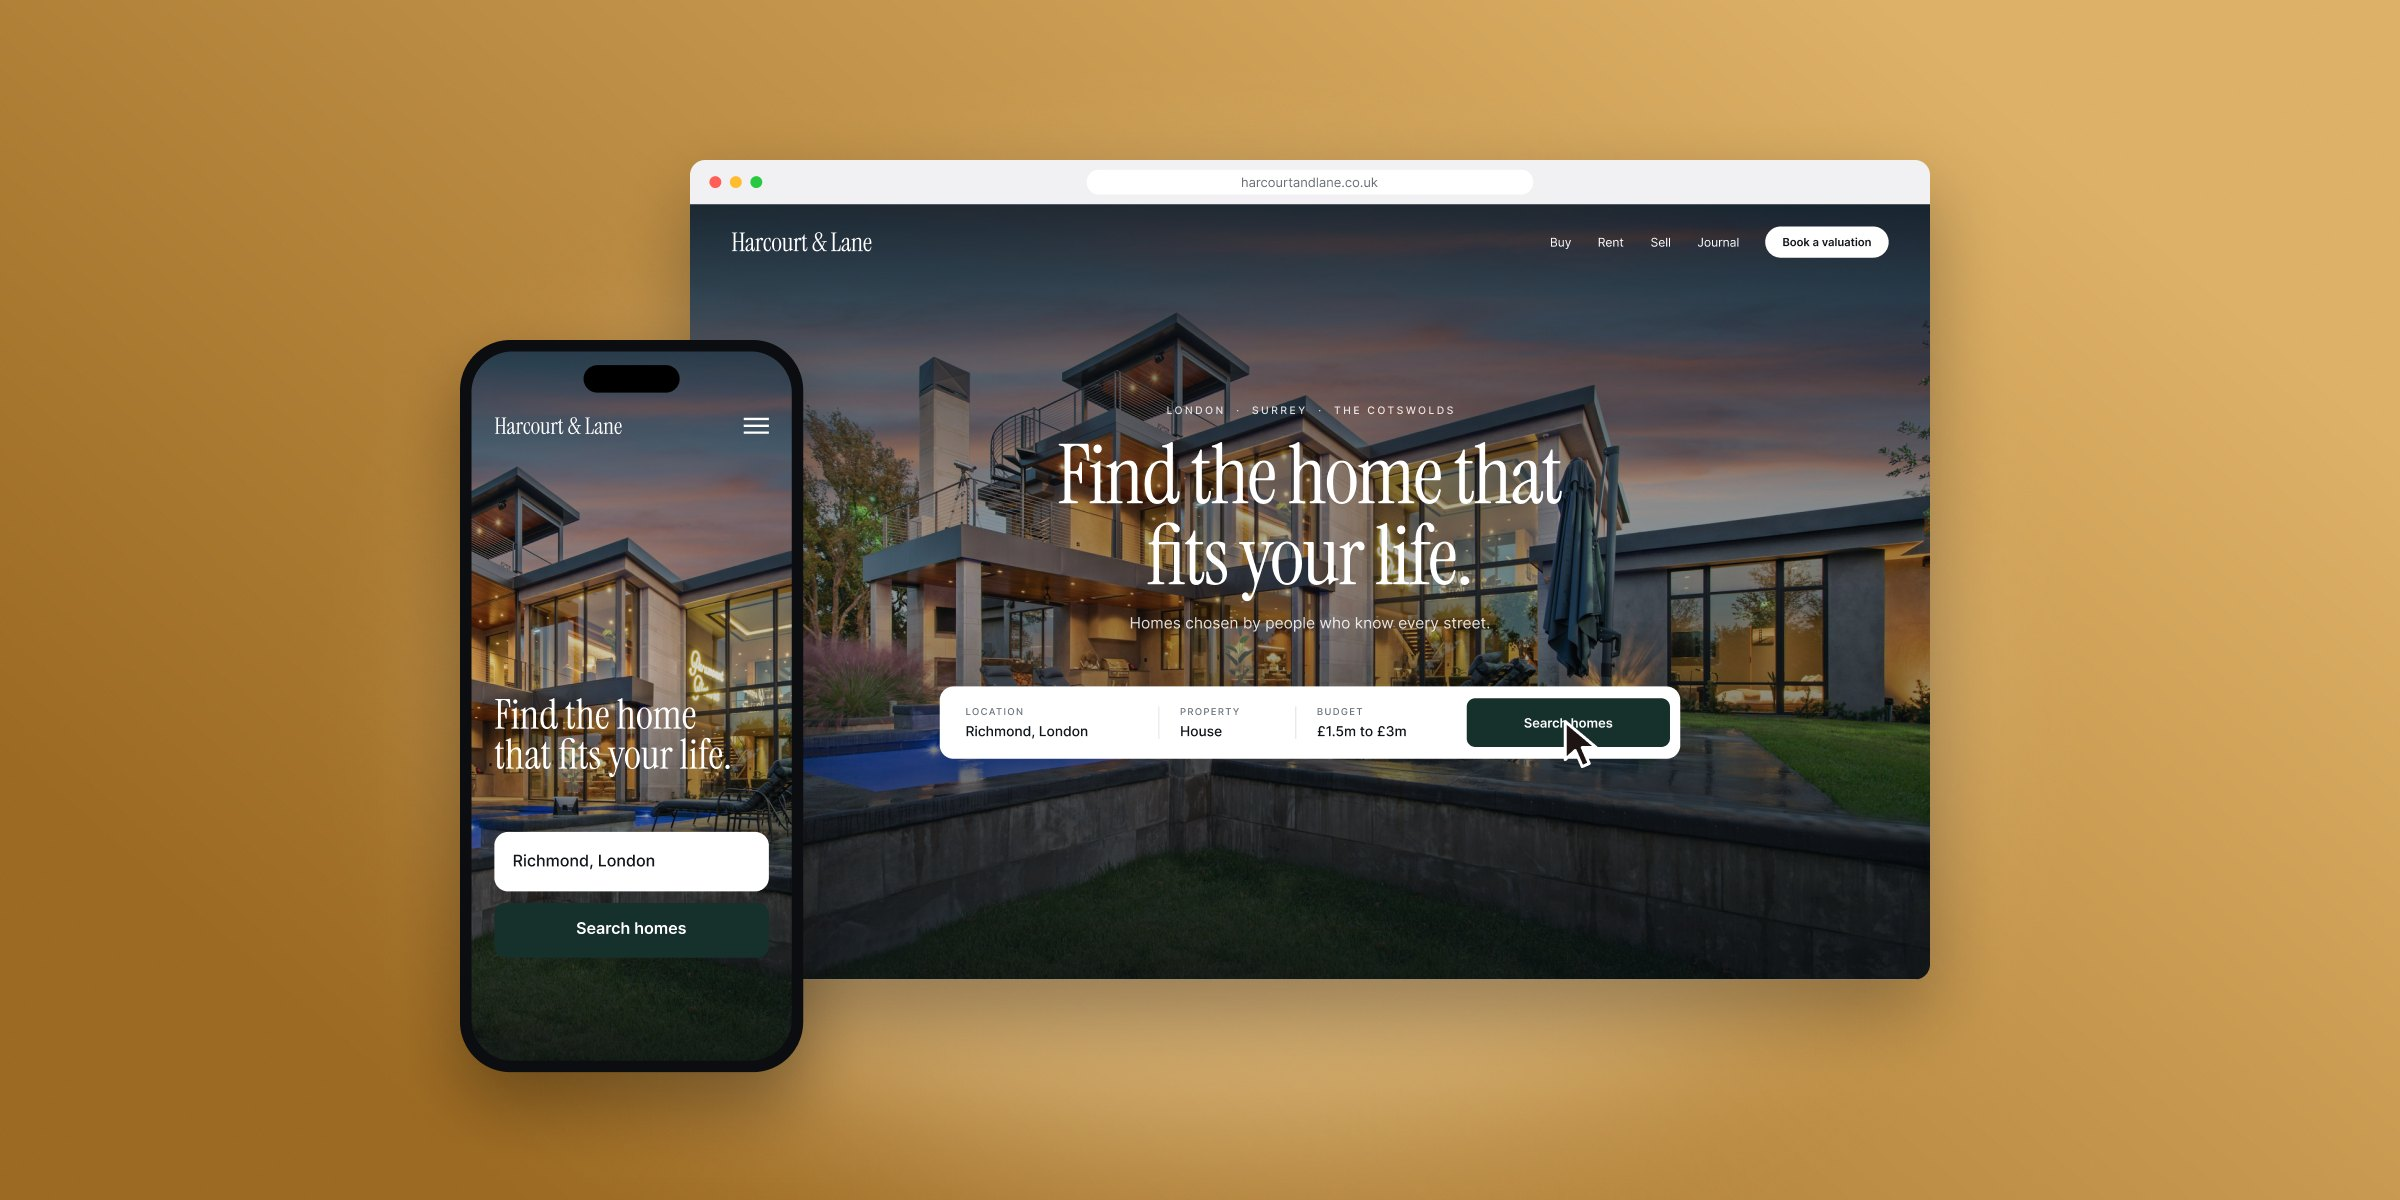
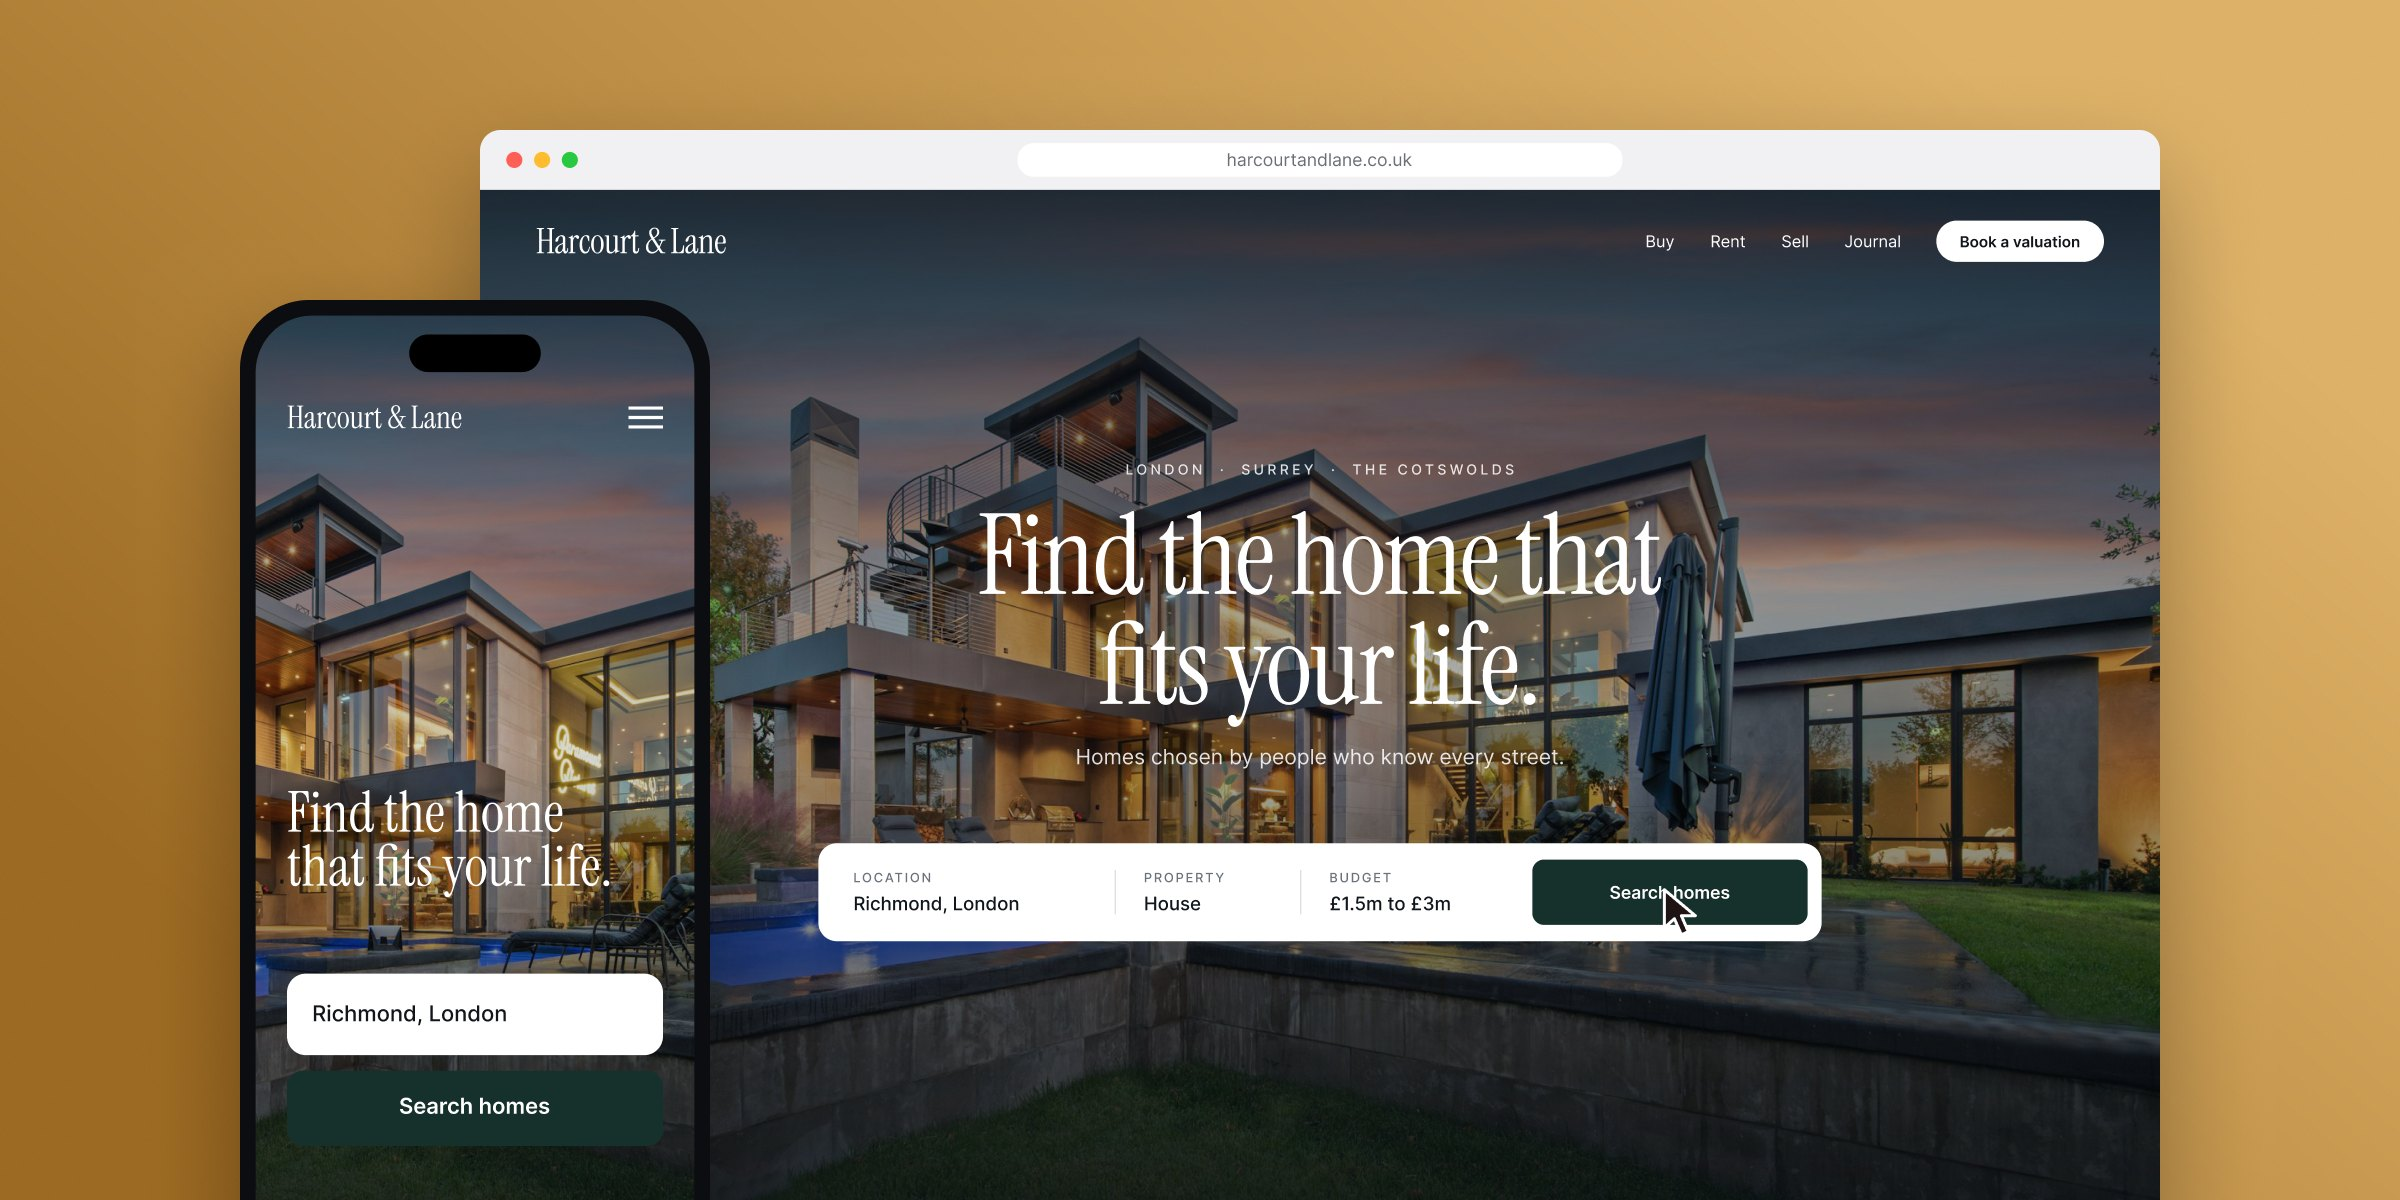
Websites page: bigger centred top image, with a 4:3 version for phones
Claude-Session: https://claude.ai/code/session_011BdSE2fEeiEv9ZgoYmWAPn

diff --git a/scripts/seed.ts b/scripts/seed.ts
@@ -60,6 +60,7 @@ const STARTER_SHARE_FILE = "share-default.jpg";
 const SERVICE_FILL_IN = [
   "card",
   "pageImage",
+  "pageImagePhone",
   "statement",
   "benefits",
   "offerings",
@@ -334,9 +335,11 @@ async function run() {
       cardFile: string | null;
       pageRef: string | null;
       pageFile: string | null;
+      phoneRef: string | null;
+      phoneFile: string | null;
     }[]
   >(
-    `*[_type == "service" && _id in $ids]{ _id, tagline, description, included, "offerings": offerings[]{ _key, title, text, "file": image.asset->originalFilename, "ref": image.asset._ref }, "faqKeys": faqs[]._key, "cardRef": card.asset._ref, "cardFile": card.asset->originalFilename, "pageRef": pageImage.asset._ref, "pageFile": pageImage.asset->originalFilename }`,
+    `*[_type == "service" && _id in $ids]{ _id, tagline, description, included, "offerings": offerings[]{ _key, title, text, "file": image.asset->originalFilename, "ref": image.asset._ref }, "faqKeys": faqs[]._key, "cardRef": card.asset._ref, "cardFile": card.asset->originalFilename, "pageRef": pageImage.asset._ref, "pageFile": pageImage.asset->originalFilename, "phoneRef": pageImagePhone.asset._ref, "phoneFile": pageImagePhone.asset->originalFilename }`,
     { ids: SERVICES.map((s) => s._id) },
   );
   for (const s of SERVICES) {
@@ -348,6 +351,7 @@ async function run() {
     const pageFields = await servicePageFields(s);
     const card = s.card?.url ? await image(s.card.url, s.card.alt) : undefined;
     const pageImage = s.pageImage?.url ? await image(s.pageImage.url, s.pageImage.alt) : undefined;
+    const pageImagePhone = s.pageImagePhone?.url ? await image(s.pageImagePhone.url, s.pageImagePhone.alt) : undefined;
     put(
       tx,
       {
@@ -374,6 +378,7 @@ async function run() {
         faqs: s.faqs.map((f) => ({ _type: "faq", _key: f._key ?? key(f.question), question: f.question, answer: f.answer })),
         ...(card ? { card } : {}),
         ...(pageImage ? { pageImage } : {}),
+        ...(pageImagePhone ? { pageImagePhone } : {}),
         ...pageFields,
       },
       OVERWRITE,
@@ -392,6 +397,10 @@ async function run() {
     if (pageImage && existing.pageFile === path.basename(s.pageImage!.url) && existing.pageRef !== pageImage.asset._ref) {
       console.log(`  updating ${s._id}: page image`);
       tx.patch(s._id, (p) => p.set({ pageImage }));
+    }
+    if (pageImagePhone && existing.phoneFile === path.basename(s.pageImagePhone!.url) && existing.phoneRef !== pageImagePhone.asset._ref) {
+      console.log(`  updating ${s._id}: page image on phones`);
+      tx.patch(s._id, (p) => p.set({ pageImagePhone }));
     }
     const rewrite = REWRITTEN[s._id];
     if (rewrite) {

diff --git a/src/content/seed-data.ts b/src/content/seed-data.ts
@@ -109,6 +109,7 @@ export const SERVICES: Service[] = [
     slug: "ai-websites",
     card: img(`/services/ai-websites/card.jpg`, 1600, 1200, CARD_ALT["ai-websites"]),
     pageImage: img(`/services/ai-websites/page.jpg`, 2400, 1200, "An estate agency's home page in a browser window and on a phone: Find the home that fits your life, on gold"),
+    pageImagePhone: img(`/services/ai-websites/page-phone.jpg`, 1600, 1200, "An estate agency's home page in a browser window and on a phone: Find the home that fits your life, on gold"),
     shortName: "Websites",
     group: "build",
     order: 1,

diff --git a/src/sanity/schemaTypes/documents/index.ts b/src/sanity/schemaTypes/documents/index.ts
@@ -162,6 +162,11 @@ export const service = defineType({
       group: "content",
       description: "Optional wide image at the top of the service page, 2:1 with the mockups in the middle. Uses the card thumbnail when empty.",
     },
+    {
+      ...imageField("pageImagePhone", "Page top image on phones"),
+      group: "content",
+      description: "Optional 4:3 version of the page top image for phones, so the mockups stay big. Uses the page top image when empty.",
+    },
     defineField({
       name: "shortName",
       title: "Short filter name",

diff --git a/src/components/services/ServiceFullPage.tsx b/src/components/services/ServiceFullPage.tsx
@@ -67,6 +67,8 @@ export function ServiceFullPage({ service, settings, work, process }: Props) {
                   ? { ...service.pageImage, hotspot: service.pageImage.hotspot ?? { x: 0.5, y: 0.5 } }
                   : { ...service.card, hotspot: service.card.hotspot ?? { x: 0.7, y: 0.72 } }
               }
+              phone={service.pageImage?.url ? service.pageImagePhone : null}
+              phoneBelow={768}
               priority
               sizes="100vw"
             />

diff --git a/src/lib/types.ts b/src/lib/types.ts
@@ -56,6 +56,8 @@ export type Service = ServiceRef & ServicePage & {
   card?: Img | null;
   /** A wide 2:1 image for the top of the service page, mockups centred; the card is used when there is none. */
   pageImage?: Img | null;
+  /** A 4:3 version of the page top image for phones. */
+  pageImagePhone?: Img | null;
   tagline: string;
   description: string;
   included: string[];

diff --git a/src/sanity/lib/queries.ts b/src/sanity/lib/queries.ts
@@ -143,6 +143,7 @@ const SERVICE = `{
   hero{ "image": image${IMG} },
   "card": card${IMG},
   "pageImage": pageImage${IMG},
+  "pageImagePhone": pageImagePhone${IMG},
   clientsLabel,
   why{ label, heading, accent },
   stats{ label, "items": coalesce(items[]{ _key, value, label }, []) },
